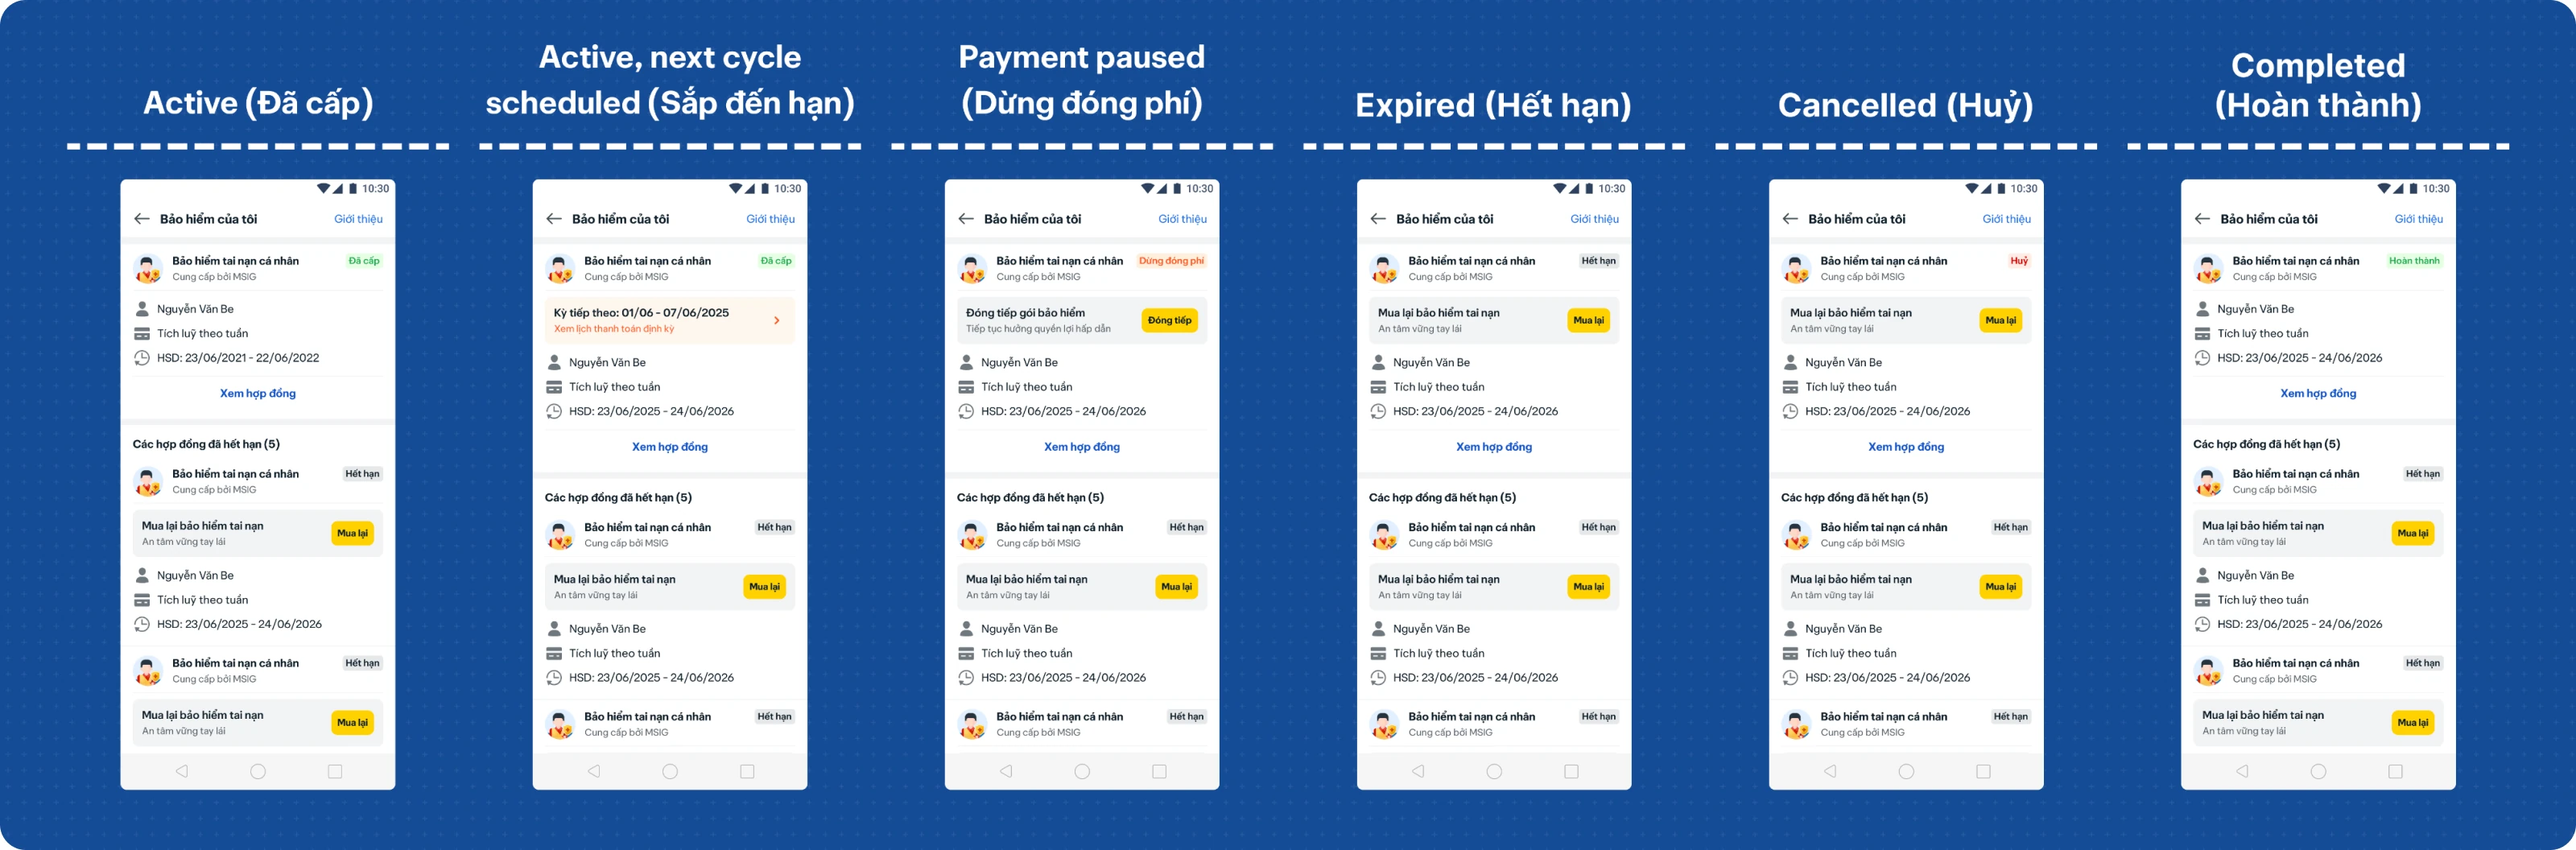
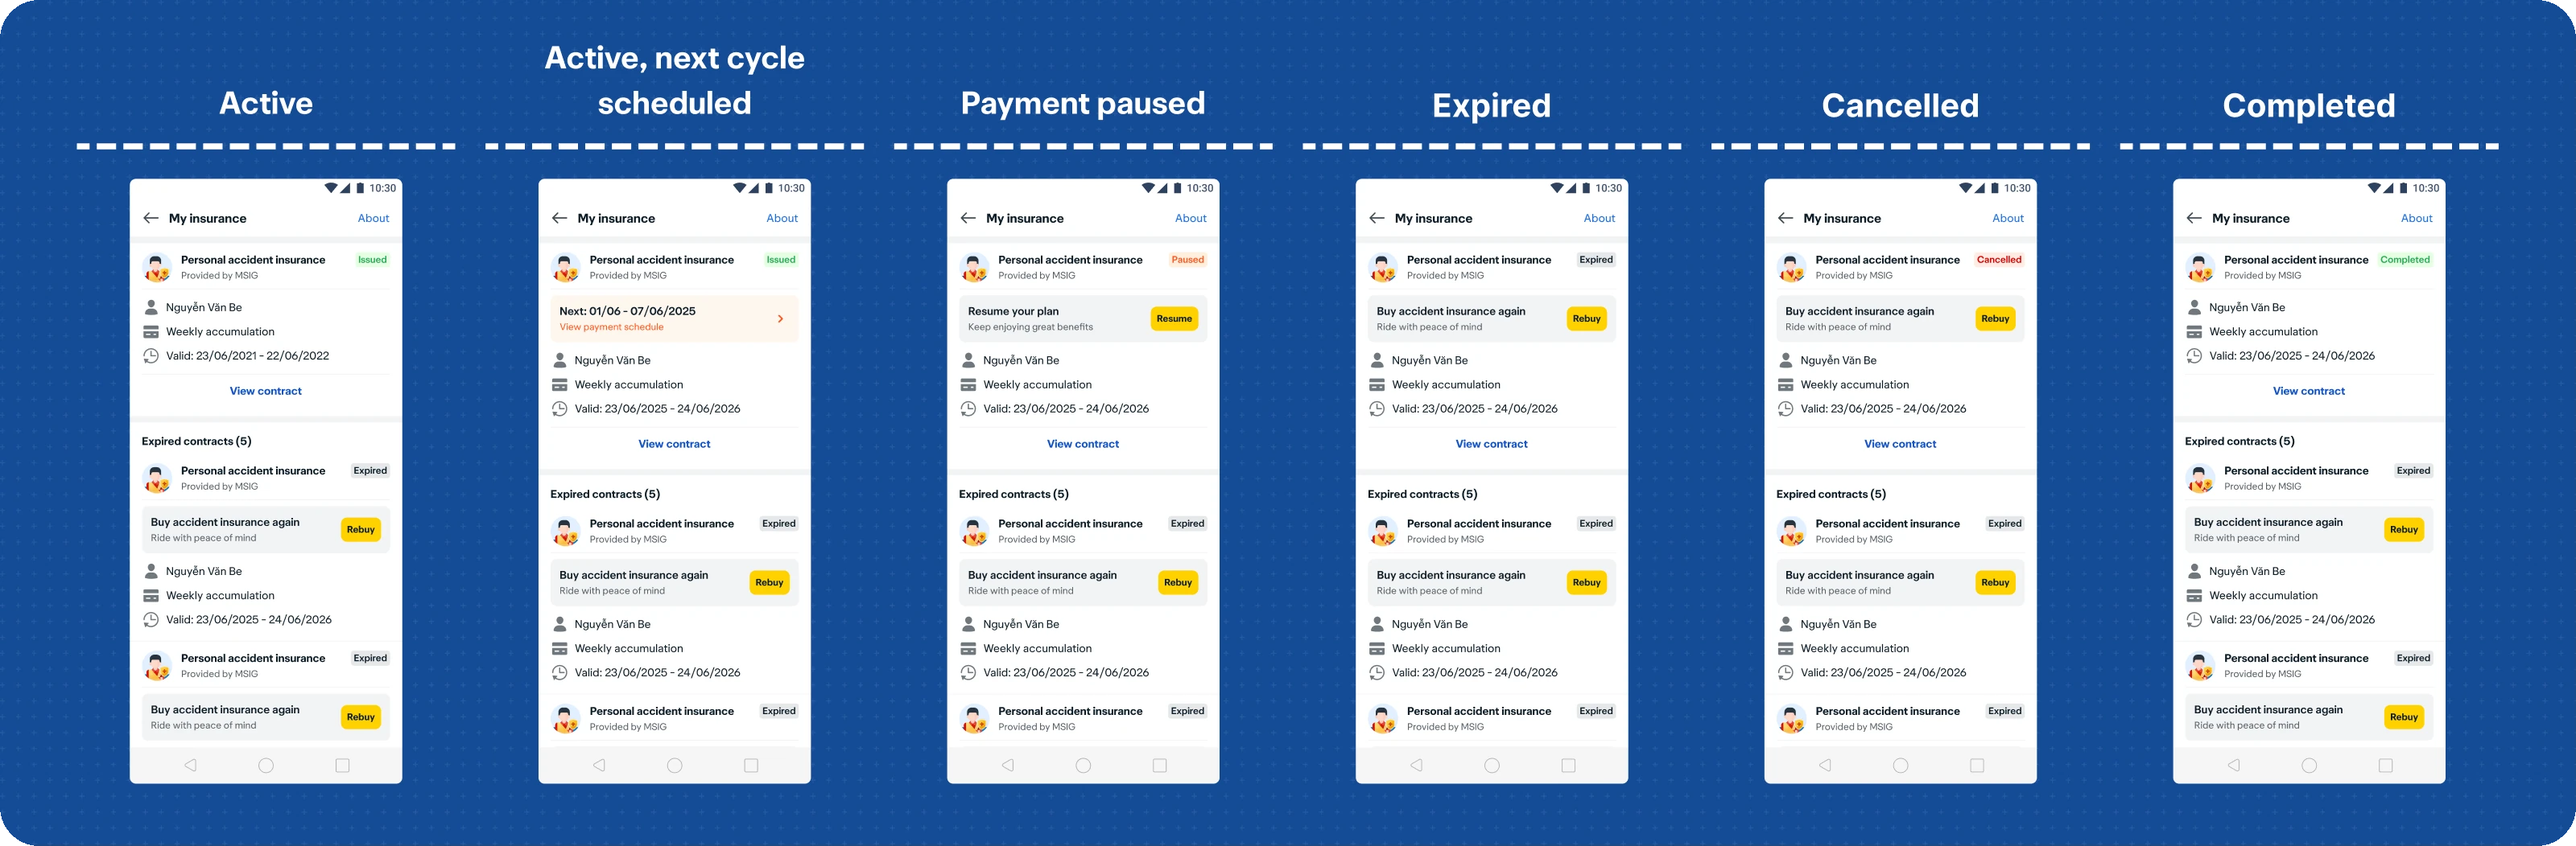
PA Insurance: show the case study screens in English
Replaces the six flow and screen images on the PA Insurance page (and
their click-to-enlarge versions) with exports of the new English copy of
the Figma case study material. Layouts are unchanged; image heights are
updated to match the exports.

Claude-Session: https://claude.ai/code/session_012KVnr7hXq8vj2tYc6C9J67

diff --git a/case-studies/pa-insurance.html b/case-studies/pa-insurance.html
@@ -425,10 +425,10 @@
 								</ul>
 							</div>
 							<div class="cs-scroll cs-wide">
-								<a class="cs-zoom" href="../assets/pa-insurance/contract-states@4x.webp"><img class="cs-img cs-img--r8" src="../assets/pa-insurance/contract-states.png" alt="My Insurance screens for six contract states: Active, Active with next cycle scheduled, Payment paused, Expired, Cancelled and Completed" width="800" height="264" loading="lazy"><span class="cs-zoom__hint" aria-hidden="true">⤢ Click to enlarge</span></a>
+								<a class="cs-zoom" href="../assets/pa-insurance/contract-states@4x.webp"><img class="cs-img cs-img--r8" src="../assets/pa-insurance/contract-states.png" alt="My Insurance screens for six contract states: Active, Active with next cycle scheduled, Payment paused, Expired, Cancelled and Completed" width="800" height="263" loading="lazy"><span class="cs-zoom__hint" aria-hidden="true">⤢ Click to enlarge</span></a>
 							</div>
 							<div class="cs-scroll cs-wide">
-								<a class="cs-zoom" href="../assets/pa-insurance/contract-state-logic@4x.webp"><img class="cs-img cs-img--r8" src="../assets/pa-insurance/contract-state-logic.png" alt="Contract state display logic for the weekly accumulation plan: six contract cards from State 1 Active to State 6 Completed with the trigger for each transition" width="800" height="180" loading="lazy"><span class="cs-zoom__hint" aria-hidden="true">⤢ Click to enlarge</span></a>
+								<a class="cs-zoom" href="../assets/pa-insurance/contract-state-logic@4x.webp"><img class="cs-img cs-img--r8" src="../assets/pa-insurance/contract-state-logic.png" alt="Contract state display logic for the weekly accumulation plan: six contract cards from State 1 Active to State 6 Completed with the trigger for each transition" width="800" height="174" loading="lazy"><span class="cs-zoom__hint" aria-hidden="true">⤢ Click to enlarge</span></a>
 							</div>
 						</div>
 						<div class="cs-result">
@@ -458,7 +458,7 @@
 							</div>
 						</div>
 						<div class="cs-scroll cs-wide">
-							<a class="cs-zoom" href="../assets/pa-insurance/claim-guidance-flow@4x.webp"><img class="cs-img cs-img--r12" src="../assets/pa-insurance/claim-guidance-flow.png" alt="In-app claim guidance flow: from contract list to contract detail, then the compensation process sheet with numbered steps and a link to the PDF detail" width="800" height="439" loading="lazy"><span class="cs-zoom__hint" aria-hidden="true">⤢ Click to enlarge</span></a>
+							<a class="cs-zoom" href="../assets/pa-insurance/claim-guidance-flow@4x.webp"><img class="cs-img cs-img--r12" src="../assets/pa-insurance/claim-guidance-flow.png" alt="In-app claim guidance flow: from contract list to contract detail, then the compensation process sheet with numbered steps and a link to the PDF detail" width="800" height="437" loading="lazy"><span class="cs-zoom__hint" aria-hidden="true">⤢ Click to enlarge</span></a>
 						</div>
 						<div class="cs-result">
 							<p class="cs-result__eyebrow">📉 final result</p>
